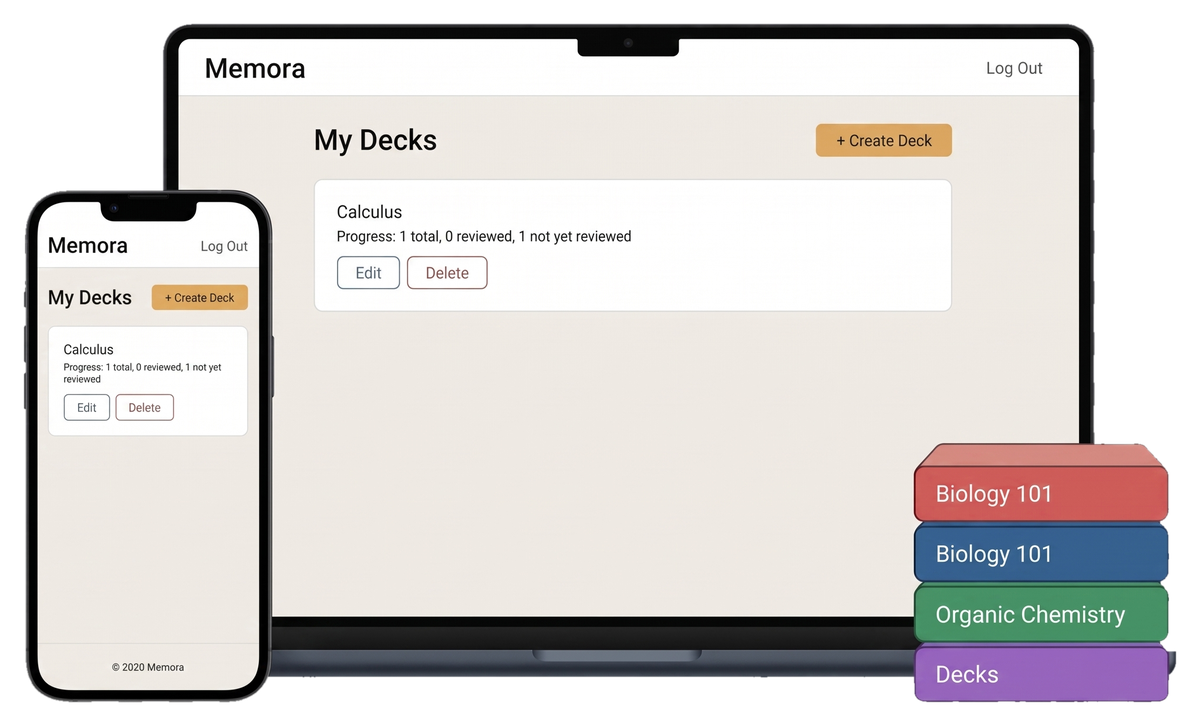
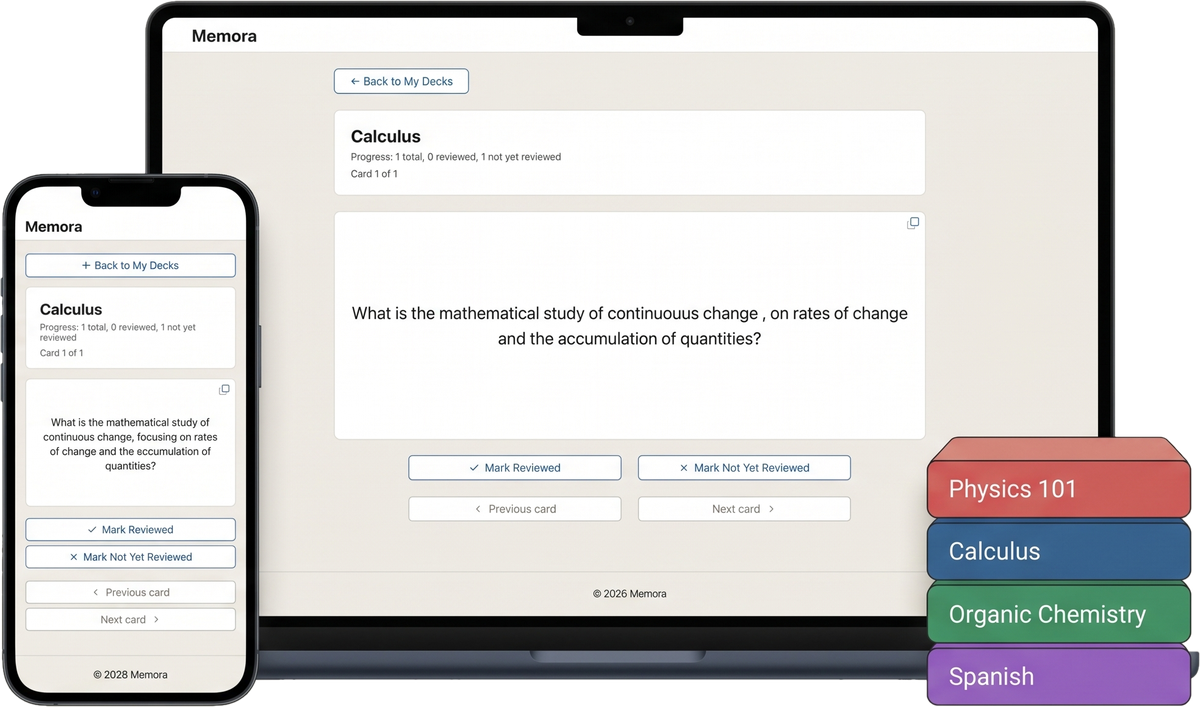
Replace Home Page hero image with updated version (#46)
Convert the updated design to a transparent PNG and update the img height attribute to match the new aspect ratio.

diff --git a/index.html b/index.html
@@ -30,7 +30,7 @@
         class="home-hero__image"
         src="assets/Home-Page-Image.png"
         width="1200"
-        height="726"
+        height="707"
         alt="Memora on a laptop and a phone, next to a stack of colorful decks."
       />
     </section>
